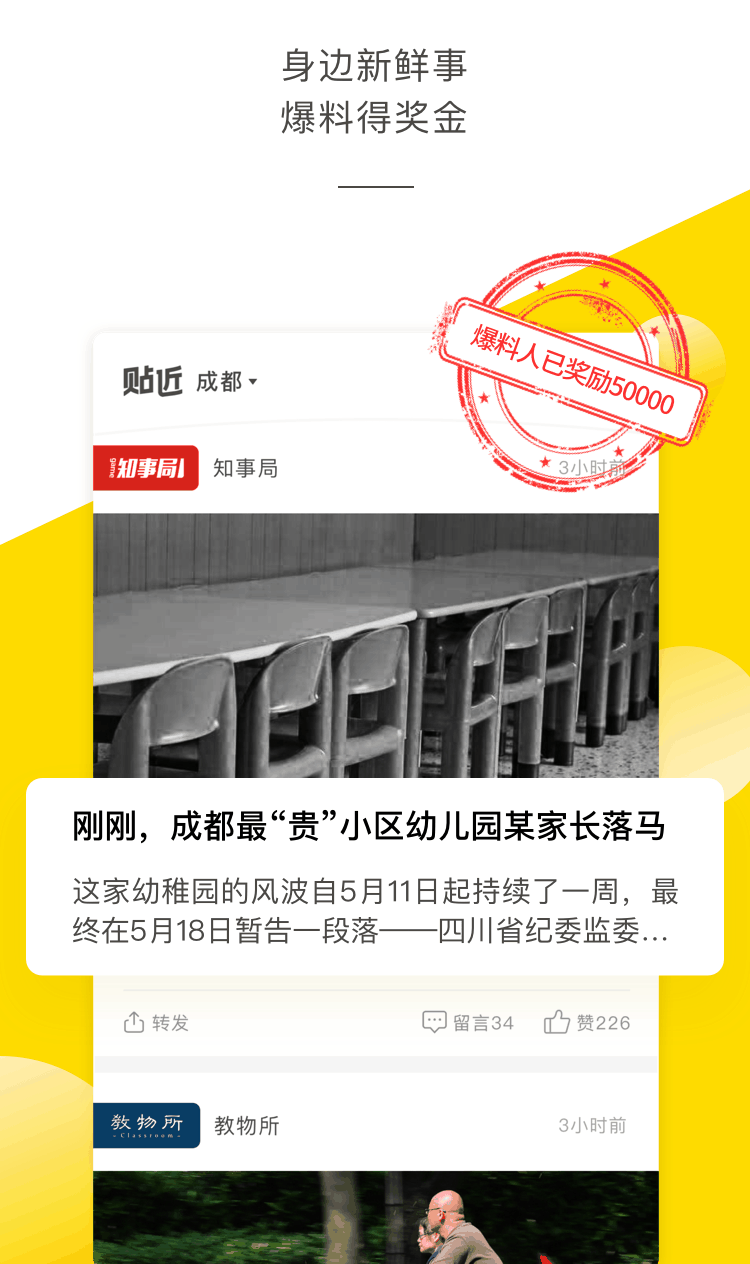
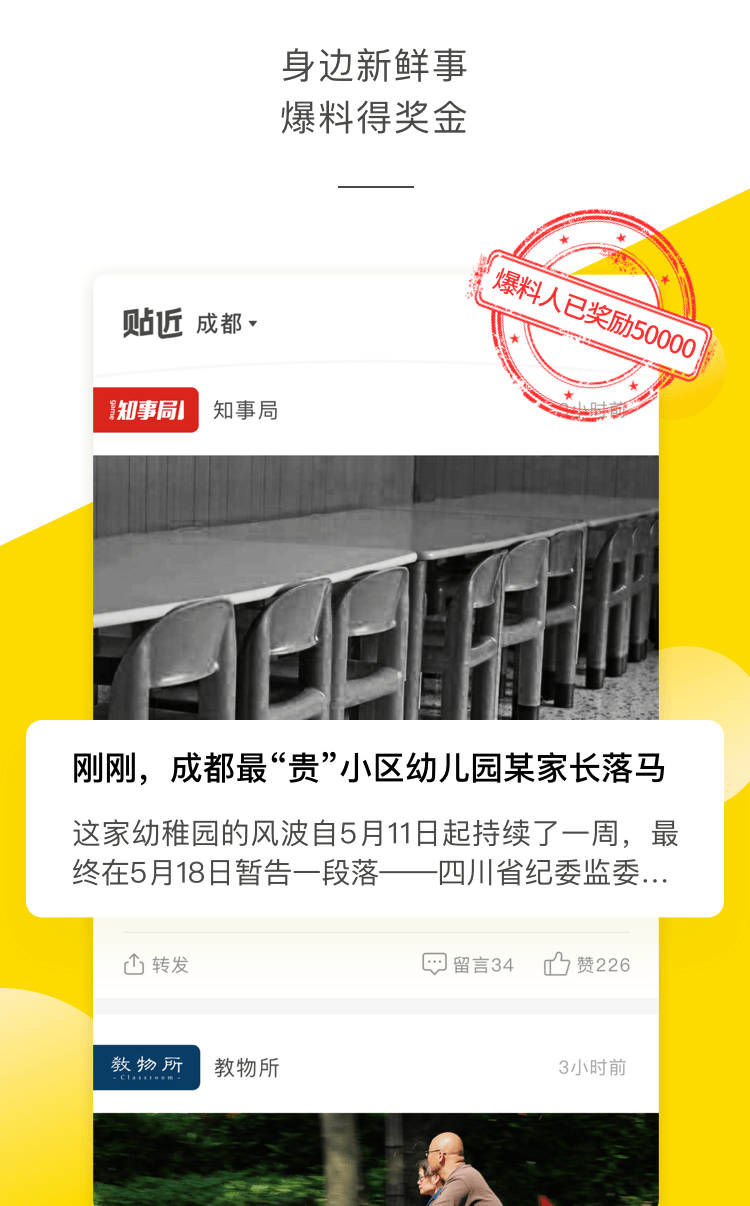
Fix 适配各个机型

diff --git a/src/pages/landing/index/index.vue b/src/pages/landing/index/index.vue
@@ -1,7 +1,7 @@
 <template>
   <div class="landing">
     <div id="pages">
-      <div class="page page1 box box-tb box-pack-between">
+      <div class="page page1 box box-tb box-pack-around">
         <div class="page1-img">
           <img src="../assets/images/zxsq3@2x.png" alt=""> 
         </div>
@@ -36,7 +36,6 @@ export default {
   },
   methods: {
     download() {
-      alert(1);
       downloadApp();
     }
   }
@@ -46,12 +45,12 @@ export default {
 .landing {
   #pages {
     .page {
-      height: 100vh;
       overflow: hidden;
       text-align: center;
     }
     .page1 {
       background: #f5f5f5;
+      height: 100vh;
       .page1-img > img {
         width: 100%;
         height: auto;
@@ -73,8 +72,8 @@ export default {
     .page2 > img,
     .page3 > img,
     .page4 > img {
-      width: auto;
-      height: 100vh;
+      width: 100%;
+      height: auto;
     }
   }
 }
